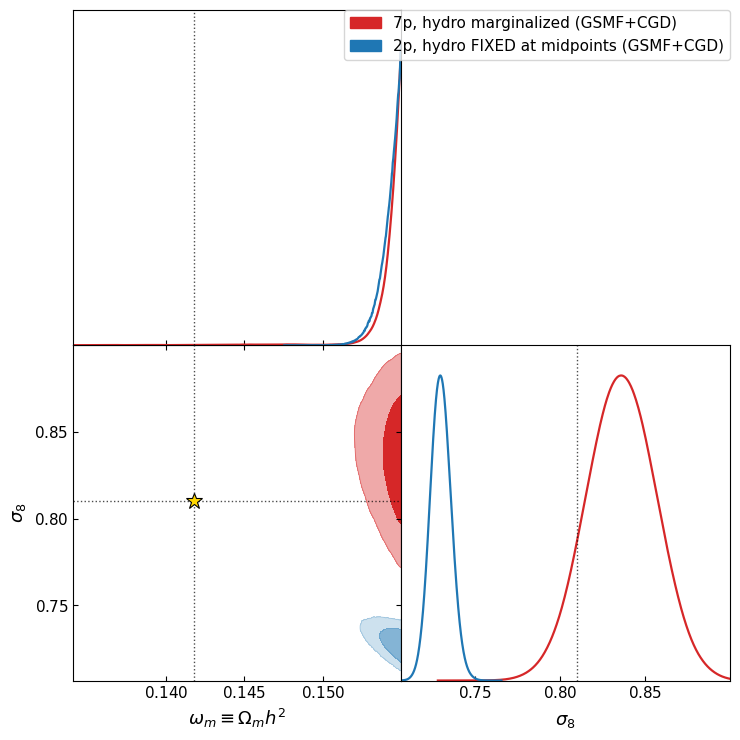
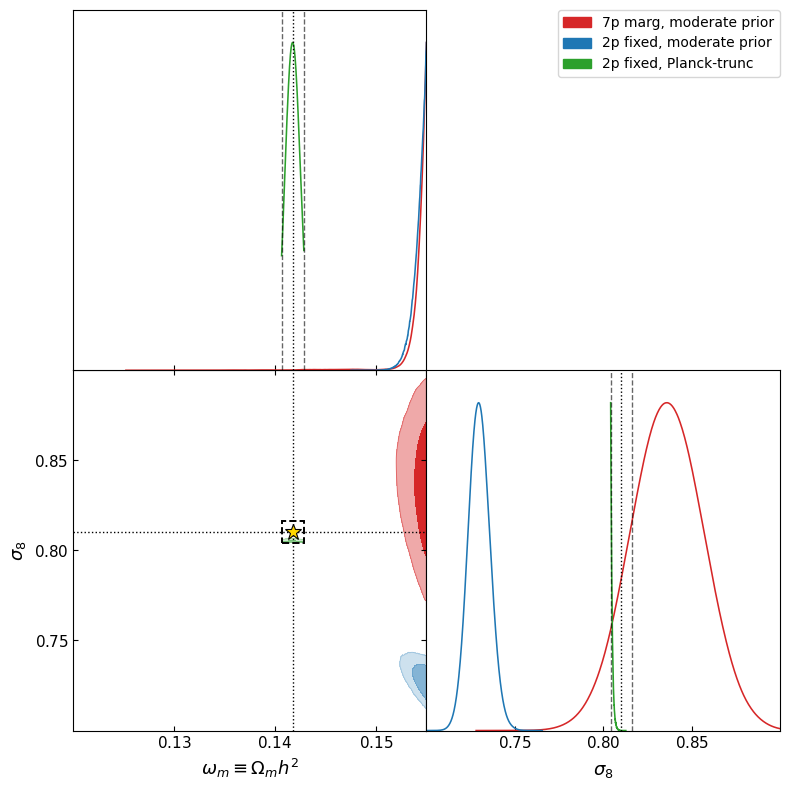
2cosmo truncated issues unresolved

diff --git a/Inference/diagnostics/check_cosmo_marg_vs_fixed.py b/Inference/diagnostics/check_cosmo_marg_vs_fixed.py
@@ -1,30 +1,24 @@
-"""2D (omega_m, sigma_8) contour overlay: marginalized-hydro vs. fixed-hydro.
+"""2D (omega_m, sigma_8) overlay: marginalized-hydro vs fixed-hydro, and the
+moderate-prior vs hard-truncated-prior (*_trunc) runs.
 
 What this answers
 -----------------
-  "If we fix the hydro parameters instead of marginalizing over them,
-   how much do the cosmology constraints change?"
+  - "If we fix hydro instead of marginalizing, how much does cosmology change?"
+  - "Does the Planck-tight hard-truncated prior actually confine cosmology?"
 
-Both chains use the shared project-default cosmology prior (moderate
-truncated Gaussian centered on the fiducial; configs/_defaults.yaml), so the
-only difference is fixed vs. marginalized hydro.
+IMPORTANT: each chain's MCSamples is given ITS OWN range (read from the saved
+params_list), so getdist's KDE is boundary-corrected at the true hard wall. If
+you instead pass the wide design-box range for a *_trunc chain, getdist smears
+the wall-piled density well past the wall and it *looks* like the run escaped
+the truncation — it didn't. The truncation is enforced in the sampler.
 
-Chains compared (GSMF + CGD, 2 observables)
--------------------------------------------
-  1. 7p marginalized to (omega_m, sigma_8)        [if present]
-       results/samples_GSMF_CGD_7p.npy
-  2. 2p, hydro FIXED at design midpoints          [if present]
-       results/samples_GSMF_CGD_2cosmo.npy
+Chains (GSMF + CGD); each skipped if absent:
+  - GSMF_CGD_7p           moderate prior, hydro marginalized   (cols 5,6)
+  - GSMF_CGD_2cosmo       moderate prior, hydro FIXED          (cols 0,1)
+  - GSMF_CGD_7p_trunc     Planck-tight prior, hydro marginalized (cols 5,6)
+  - GSMF_CGD_2cosmo_trunc Planck-tight prior, hydro FIXED        (cols 0,1)
 
-(The GSMF+CGD+fGas variant was retired — CGD+fGas drove cosmology to the
-design-box edge; its chains live in old_results/retired_GSMF_CGD_fGas/.)
-Each chain that does not exist yet is skipped with a note, so it is safe to
-re-run while the MCMCs are still going.
-
-Outputs (in this directory)
----------------------------
-  cosmo_marg_vs_fixed.png
-  cosmo_marg_vs_fixed_medians.txt
+Outputs: cosmo_marg_vs_fixed.png, cosmo_marg_vs_fixed_medians.txt
 """
 import os
 import numpy as np
@@ -34,110 +28,104 @@ import matplotlib.pyplot as plt
 from getdist import plots as gd_plots
 from getdist import MCSamples
 
-
 V2  = '/home/nramachandra/Projects/Hydro_runs/CosmoHydro'
+RES = os.path.join(V2, 'Inference/results')
 OUT = os.path.join(V2, 'Inference/diagnostics')
 
-# Design ranges (must match FinalDesign cosmology columns)
-RANGES = {'omega_m': (0.12, 0.155), 'sigma_8': (0.7, 0.9)}
-# Project fiducial cosmology
+# Axis limits (design box) and fiducial.
+AXIS = {'omega_m': (0.12, 0.155), 'sigma_8': (0.70, 0.90)}
 FID = {'omega_m': 0.14176, 'sigma_8': 0.8102}
-# Shared project-default cosmology prior (moderate fiducial-centered Gaussian
-# from configs/_defaults.yaml). For reference only; not drawn.
-PRIOR = {'omega_m': (0.14176, 0.005),
-         'sigma_8': (0.8102,  0.03)}
+# Hard-truncation window of the *_trunc runs (drawn as a box).
+TRUNC_WIN = {'omega_m': (0.14066, 0.14286), 'sigma_8': (0.8042, 0.8162)}
 
-NAMES  = ['omega_m', 'sigma_8']
+NAMES = ['omega_m', 'sigma_8']
 LABELS = [r'\omega_m \equiv \Omega_m h^2', r'\sigma_8']
 
-
 CANDIDATES = [
-    dict(
-        label='7p, hydro marginalized (GSMF+CGD)',
-        path=f'{V2}/Inference/results/samples_GSMF_CGD_7p.npy',
-        cols=(5, 6), color='tab:red', ls='-',
-    ),
-    dict(
-        label='2p, hydro FIXED at midpoints (GSMF+CGD)',
-        path=f'{V2}/Inference/results/samples_GSMF_CGD_2cosmo.npy',
-        cols=(0, 1), color='tab:blue', ls='-',
-    ),
+    dict(label='7p marg, moderate prior',  trial='GSMF_CGD_7p',          cols=(5, 6), color='tab:red'),
+    dict(label='2p fixed, moderate prior',  trial='GSMF_CGD_2cosmo',      cols=(0, 1), color='tab:blue'),
+    dict(label='7p marg, Planck-trunc',     trial='GSMF_CGD_7p_trunc',    cols=(5, 6), color='tab:purple'),
+    dict(label='2p fixed, Planck-trunc',    trial='GSMF_CGD_2cosmo_trunc', cols=(0, 1), color='tab:green'),
 ]
 
 
-def _mcsamples(chain2d, label):
-    return MCSamples(samples=chain2d, names=NAMES, labels=LABELS,
-                     label=label, ranges=RANGES)
+def _load(trial, cols):
+    """Return (sub2d, ranges_dict) using the chain's OWN saved param ranges."""
+    sp = os.path.join(RES, f'samples_{trial}.npy')
+    pp = os.path.join(RES, f'params_list_{trial}.npy')
+    if not (os.path.exists(sp) and os.path.exists(pp)):
+        return None
+    arr = np.load(sp)
+    pl = np.load(pp, allow_pickle=True).tolist()
+    if arr.ndim != 2 or arr.shape[1] <= max(cols):
+        return None
+    sub = np.column_stack([arr[:, cols[0]], arr[:, cols[1]]])
+    ranges = {'omega_m': (float(pl[cols[0]][2]), float(pl[cols[0]][3])),
+              'sigma_8': (float(pl[cols[1]][2]), float(pl[cols[1]][3]))}
+    return sub, ranges
 
 
 loaded = []
 print('chain inventory:')
 for c in CANDIDATES:
-    if not os.path.exists(c['path']):
-        print(f'  MISSING  {c["label"]:55s}  ({c["path"]})')
+    r = _load(c['trial'], c['cols'])
+    if r is None:
+        print(f'  MISSING  {c["label"]:28s} ({c["trial"]})')
         continue
-    arr = np.load(c['path'])
-    if arr.ndim != 2 or arr.shape[1] <= max(c['cols']):
-        print(f'  SKIP     {c["label"]:55s}  bad shape {arr.shape}')
-        continue
-    sub = np.column_stack([arr[:, c['cols'][0]], arr[:, c['cols'][1]]])
-    print(f'  LOADED   {c["label"]:55s}  shape={arr.shape}  '
-          f'-> 2D (omega_m,sigma_8) {sub.shape}')
-    print(f'           median = ({np.median(sub[:,0]):.4f}, {np.median(sub[:,1]):.4f})  '
-          f'std = ({np.std(sub[:,0]):.4f}, {np.std(sub[:,1]):.4f})')
-    loaded.append({**c, 'samples': sub, 'mc': _mcsamples(sub, c['label'])})
+    sub, ranges = r
+    mc = MCSamples(samples=sub, names=NAMES, labels=LABELS, label=c['label'], ranges=ranges)
+    print(f'  LOADED   {c["label"]:28s} median=({np.median(sub[:,0]):.4f}, {np.median(sub[:,1]):.4f}) '
+          f'range_om=[{ranges["omega_m"][0]:.4f},{ranges["omega_m"][1]:.4f}]')
+    loaded.append({**c, 'samples': sub, 'ranges': ranges, 'mc': mc})
 
 if not loaded:
     raise SystemExit('No chains found — nothing to plot.')
 
-
-# ----- triangle / 2D plot ---------------------------------------------------
-g = gd_plots.get_subplot_plotter(width_inch=7.5)
+# ----- 2D triangle ----------------------------------------------------------
+g = gd_plots.get_subplot_plotter(width_inch=8)
 g.settings.alpha_filled_add = 0.55
-g.settings.legend_fontsize  = 11
-g.settings.axes_fontsize    = 11
-g.settings.lab_fontsize     = 13
+g.settings.legend_fontsize = 10
+g.settings.axes_fontsize = 11
+g.settings.lab_fontsize = 13
 
-g.triangle_plot(
-    [c['mc'] for c in loaded], NAMES, filled=True,
-    contour_colors=[c['color'] for c in loaded],
-    line_args=[{'color': c['color'], 'ls': c['ls'], 'lw': 1.6} for c in loaded],
-    legend_loc='upper right',
-)
+g.triangle_plot([c['mc'] for c in loaded], NAMES, filled=True,
+                contour_colors=[c['color'] for c in loaded],
+                param_limits=AXIS, legend_loc='upper right')
 
-# overlay fiducial cosmology
-ax_om   = g.subplots[0, 0]   # 1D omega_m
-ax_s8   = g.subplots[1, 1]   # 1D sigma_8
-ax_2d   = g.subplots[1, 0]   # 2D (omega_m, sigma_8)
-for ax in (ax_om,):
-    ax.axvline(FID['omega_m'], color='k', ls=':', lw=1.0, alpha=0.7)
-for ax in (ax_s8,):
-    ax.axvline(FID['sigma_8'], color='k', ls=':', lw=1.0, alpha=0.7)
-ax_2d.axvline(FID['omega_m'], color='k', ls=':', lw=1.0, alpha=0.7)
-ax_2d.axhline(FID['sigma_8'], color='k', ls=':', lw=1.0, alpha=0.7)
-ax_2d.plot([FID['omega_m']], [FID['sigma_8']], marker='*', ms=12,
-           mfc='gold', mec='k', mew=0.8, ls='', label='fiducial', zorder=20)
+ax_om, ax_s8, ax_2d = g.subplots[0, 0], g.subplots[1, 1], g.subplots[1, 0]
+# fiducial
+ax_om.axvline(FID['omega_m'], color='k', ls=':', lw=1.0)
+ax_s8.axvline(FID['sigma_8'], color='k', ls=':', lw=1.0)
+ax_2d.axvline(FID['omega_m'], color='k', ls=':', lw=1.0)
+ax_2d.axhline(FID['sigma_8'], color='k', ls=':', lw=1.0)
+ax_2d.plot([FID['omega_m']], [FID['sigma_8']], marker='*', ms=12, mfc='gold',
+           mec='k', mew=0.8, ls='', zorder=20)
+# hard-truncation window (the wall the *_trunc runs live inside)
+(olo, ohi), (slo, shi) = TRUNC_WIN['omega_m'], TRUNC_WIN['sigma_8']
+ax_2d.add_patch(plt.Rectangle((olo, slo), ohi - olo, shi - slo, fill=False,
+                              ec='k', lw=1.4, ls='--', zorder=19))
+for v in (olo, ohi):
+    ax_om.axvline(v, color='k', ls='--', lw=1.0, alpha=0.6)
+for v in (slo, shi):
+    ax_s8.axvline(v, color='k', ls='--', lw=1.0, alpha=0.6)
 
-g.fig.suptitle(
-    'GSMF+CGD+fGas posteriors on cosmology: marginalized vs. fixed hydro',
-    y=1.02, fontsize=13,
-)
-
+g.fig.suptitle('GSMF+CGD cosmology: marginalized vs fixed hydro, '
+               'moderate vs Planck-truncated prior\n'
+               '(dashed box = truncation window; star = fiducial)',
+               y=1.04, fontsize=12)
 out_path = os.path.join(OUT, 'cosmo_marg_vs_fixed.png')
 g.export(out_path)
 print(f'\nwrote {out_path}')
 
-
 # ----- text summary ---------------------------------------------------------
 sumpath = os.path.join(OUT, 'cosmo_marg_vs_fixed_medians.txt')
 with open(sumpath, 'w') as f:
-    f.write('Cosmology posterior summary on (omega_m, sigma_8)\n')
-    f.write(f'fiducial : omega_m = {FID["omega_m"]:.5f},  sigma_8 = {FID["sigma_8"]:.4f}\n')
-    f.write(f'prior    : omega_m ~ N({PRIOR["omega_m"][0]:.4f}, {PRIOR["omega_m"][1]:.4f}), '
-            f'sigma_8 ~ N({PRIOR["sigma_8"][0]:.4f}, {PRIOR["sigma_8"][1]:.4f})\n\n')
-    f.write(f'{"chain":55s}  {"omega_m (med +/- 1sig)":24s}   {"sigma_8 (med +/- 1sig)":24s}\n')
+    f.write('Cosmology posterior on (omega_m, sigma_8)\n')
+    f.write(f'fiducial: omega_m={FID["omega_m"]:.5f}, sigma_8={FID["sigma_8"]:.4f}\n')
+    f.write(f'trunc window: omega_m{TRUNC_WIN["omega_m"]}, sigma_8{TRUNC_WIN["sigma_8"]}\n\n')
+    f.write(f'{"chain":28s}  {"omega_m med [min,max]":34s}  {"sigma_8 med [min,max]"}\n')
     for c in loaded:
         s = c['samples']
-        f.write(f'  {c["label"]:55s}  {np.median(s[:,0]):.5f} +/- {np.std(s[:,0]):.5f}    '
-                f'{np.median(s[:,1]):.4f} +/- {np.std(s[:,1]):.4f}\n')
+        f.write(f'  {c["label"]:28s}  {np.median(s[:,0]):.5f} [{s[:,0].min():.5f},{s[:,0].max():.5f}]  '
+                f'{np.median(s[:,1]):.5f} [{s[:,1].min():.5f},{s[:,1].max():.5f}]\n')
 print(f'wrote {sumpath}')

diff --git a/Inference/plot_7p_vs_2cosmo_5subgrid.py b/Inference/plot_7p_vs_2cosmo_5subgrid.py
@@ -75,20 +75,24 @@ def _cosmo_kind(name):
 
 
 def fiducial_crosshairs(g, names):
-    """Dotted crosshairs at fiducial cosmology on the (omega_m, sigma_8) panels."""
-    fid = {names[5]: FID_OM, names[6]: FID_S8}
+    """Dotted crosshairs at fiducial cosmology on the (omega_m, sigma_8) panels.
+    Identifies cosmo params by name, so it works for any param subset."""
+    fidval = {'omega_m': FID_OM, 'sigma_8': FID_S8}
     for i, ni in enumerate(names):
-        for j, nj in enumerate(names):
-            if j > i:
-                continue
+        for j in range(i + 1):
+            nj = names[j]
             ax = g.subplots[i, j]
             if ax is None:
                 continue
-            if i == j and ni in fid:
-                ax.axvline(fid[ni], color='k', lw=1.0, ls=':')
-            elif ni in fid and nj in fid:
-                ax.axvline(fid[nj], color='k', lw=1.0, ls=':')
-                ax.axhline(fid[ni], color='k', lw=1.0, ls=':')
+            ki, kj = _cosmo_kind(ni), _cosmo_kind(nj)
+            if i == j:
+                if ki in fidval:
+                    ax.axvline(fidval[ki], color='k', lw=1.0, ls=':')
+            else:
+                if kj in fidval:
+                    ax.axvline(fidval[kj], color='k', lw=1.0, ls=':')
+                if ki in fidval:
+                    ax.axhline(fidval[ki], color='k', lw=1.0, ls=':')
 
 
 def overlay_priors(g, names, ranges, cosmo_prior):
@@ -136,32 +140,38 @@ def _plotter():
 
 
 def make_triangle(obs_label, t7p, t2c, t5p, output, cosmo_prior=MODERATE_PRIOR):
-    """7p triangle with 2cosmo (cosmo panels) and 5subgrid (subgrid panels)
-    overlaid. cosmo_prior defaults to the moderate _defaults prior."""
+    """Triangle with 7p, 2cosmo (cosmo panels) and 5subgrid (subgrid panels)
+    overlaid. The param-space is anchored on the richest AVAILABLE chain, so it
+    still renders if the 7p chain isn't done yet (e.g. only 2cosmo present).
+    Each chain keeps its own range, so getdist clips truncated chains at their
+    hard wall instead of smearing the KDE past it."""
     print(f"\n=== triangle: {obs_label} ===")
-    l7 = load(t7p)
-    if l7 is None:
-        print(f"  no 7p chain ({t7p}) — skipping this triangle")
+    specs = [(t7p, '#1f77b4', f'7 params ({obs_label}, cosmo + hydro free)'),
+             (t5p, '#2ca02c', f'5 subgrid only ({obs_label}, cosmology fixed at fiducial)'),
+             (t2c, '#d62728', f'2 cosmo only ({obs_label}, hydro fixed at fiducial)')]
+    avail = []
+    for trial, color, label in specs:
+        if not trial:
+            continue
+        l = load(trial)
+        if l is not None:
+            avail.append((l, color, label))
+    if not avail:
+        print(f"  no chains for {obs_label} — skipping this triangle")
         return
-    l2 = load(t2c) if t2c else None
-    l5 = load(t5p) if t5p else None
 
-    names_7p, ranges_7p = l7[1], l7[2]
-
-    mcs, colors, labels = [mcsamples(l7, f'7 params ({obs_label}, cosmo + hydro free)')], ['#1f77b4'], []
-    labels.append(mcs[-1].label)
-    if l2 is not None:
-        mcs.append(mcsamples(l2, f'2 cosmo only ({obs_label}, hydro fixed at fiducial)'))
-        colors.append('#d62728'); labels.append(mcs[-1].label)
-    if l5 is not None:
-        mcs.append(mcsamples(l5, f'5 subgrid only ({obs_label}, cosmology fixed at fiducial)'))
-        colors.append('#2ca02c'); labels.append(mcs[-1].label)
+    # Anchor the triangle param-space on the chain with the most parameters.
+    anchor = max(avail, key=lambda t: len(t[0][1]))
+    names, ranges = anchor[0][1], anchor[0][2]
+    mcs    = [mcsamples(l, label) for (l, _, label) in avail]
+    colors = [color for (_, color, _) in avail]
+    labels = [label for (_, _, label) in avail]
 
     g = _plotter()
-    g.triangle_plot(mcs, params=names_7p, filled=True, legend_labels=labels,
-                    param_limits=ranges_7p, contour_colors=colors)
-    fiducial_crosshairs(g, names_7p)
-    overlay_priors(g, names_7p, ranges_7p, cosmo_prior)
+    g.triangle_plot(mcs, params=names, filled=True, legend_labels=labels,
+                    param_limits=ranges, contour_colors=colors)
+    fiducial_crosshairs(g, names)
+    overlay_priors(g, names, ranges, cosmo_prior)
     plt.suptitle(f'{obs_label} — 7-param vs 2-cosmology vs 5-subgrid MCMC '
                  '(dashed = prior)', y=1.005, fontsize=14)
     plt.savefig(output, bbox_inches='tight', dpi=150)
